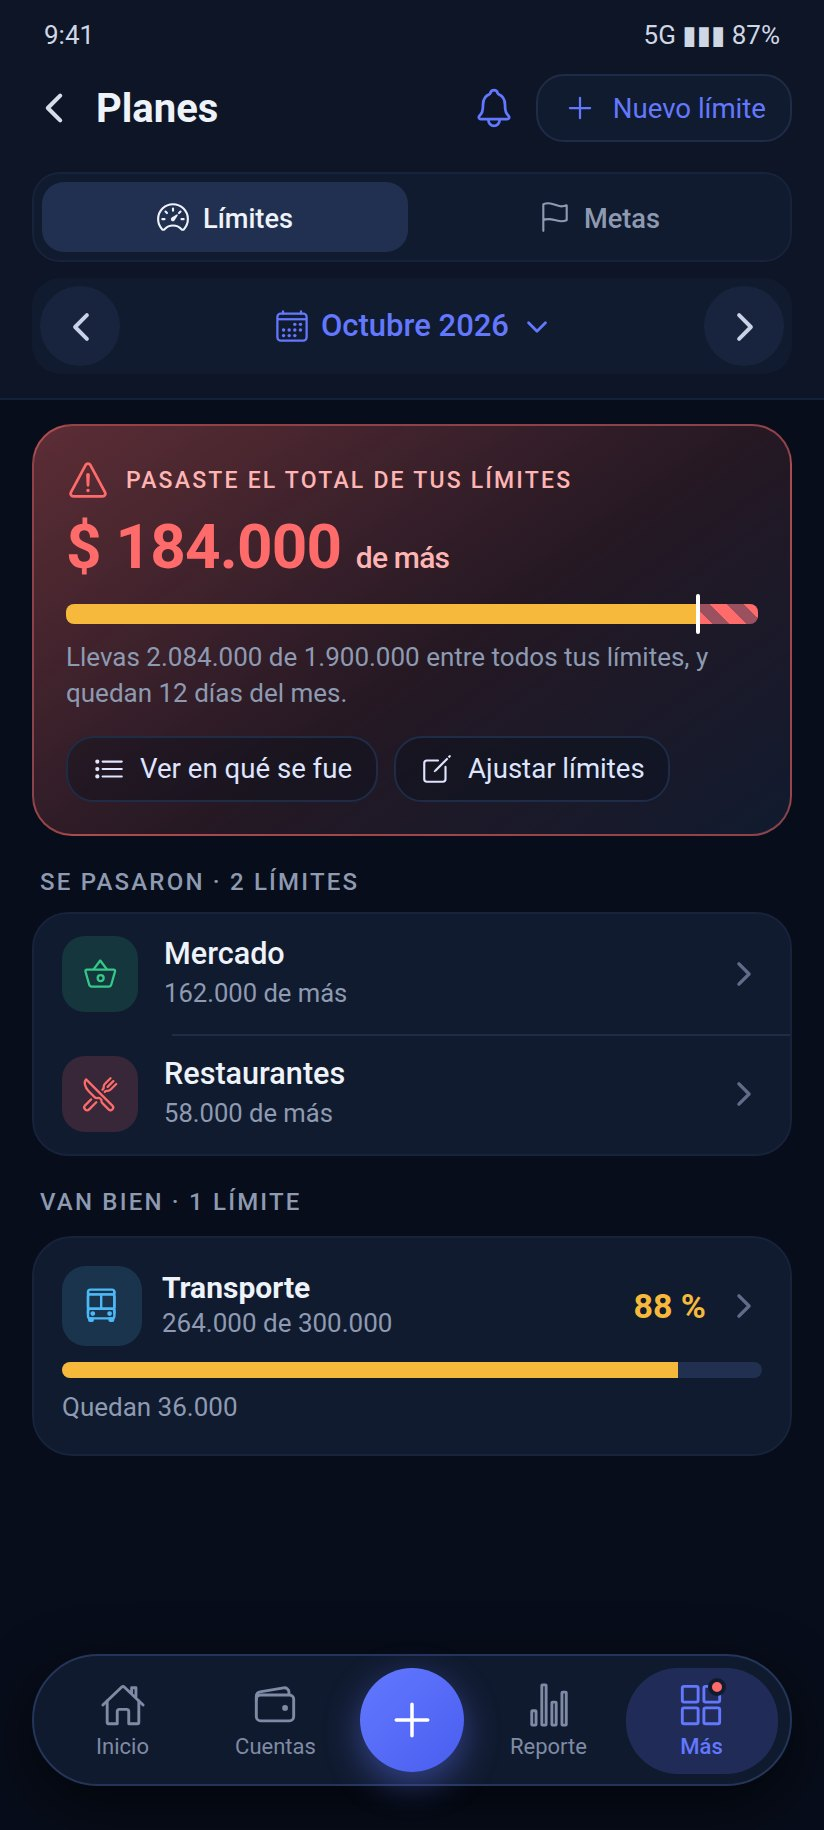
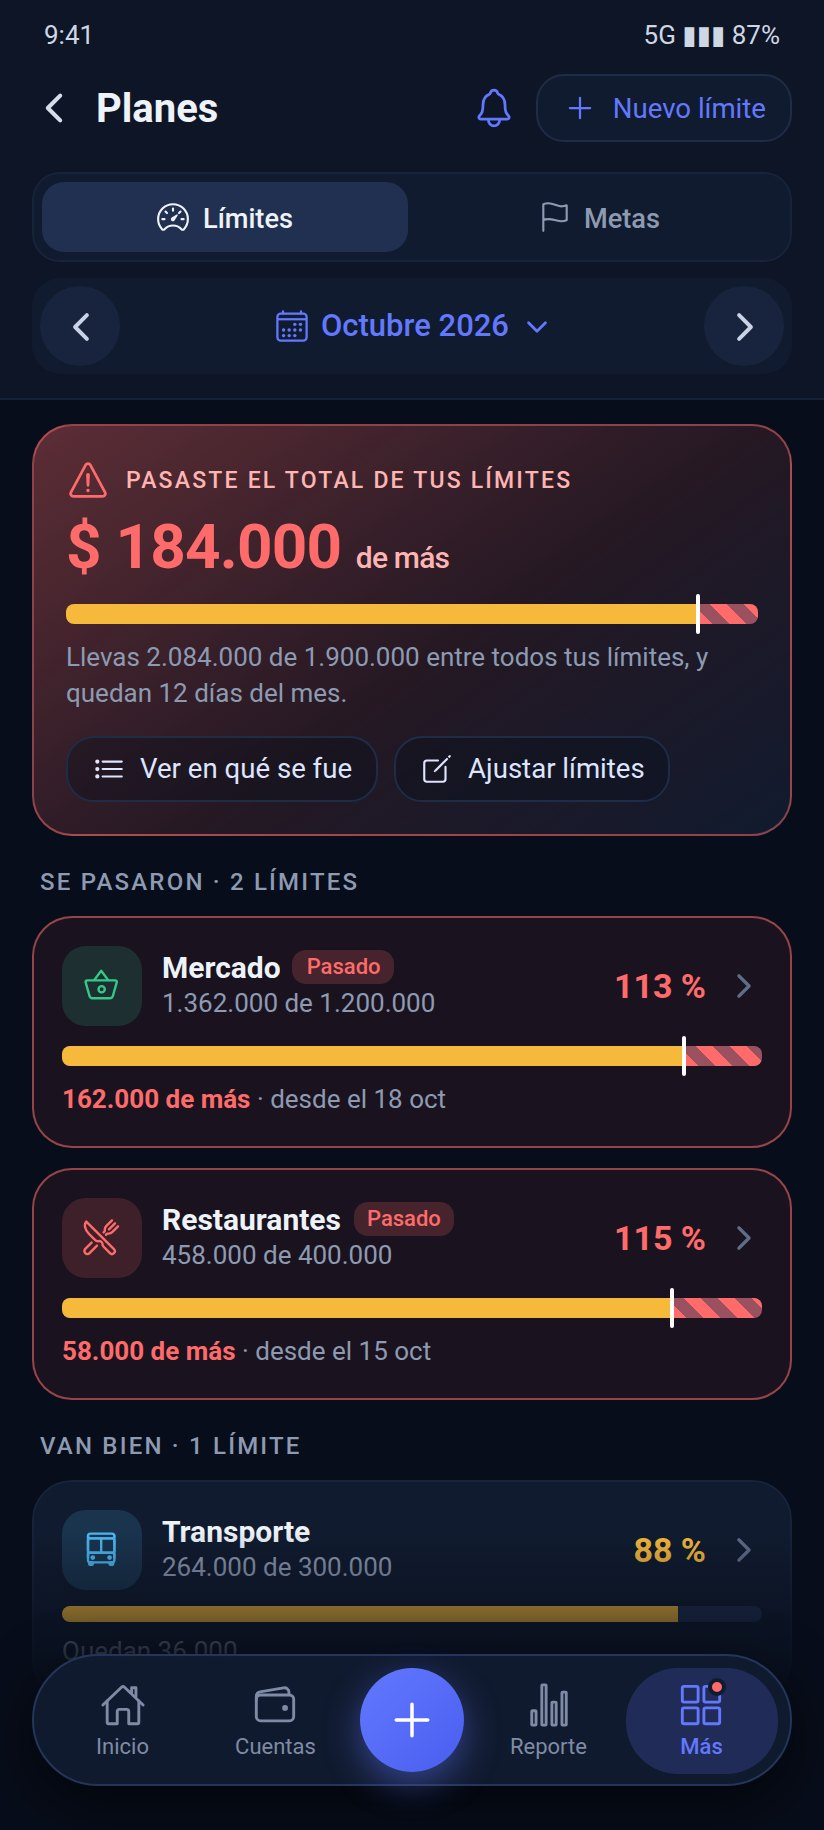
Mockups: with the total passed, each passed limit keeps its own red card
Claude-Session: https://claude.ai/code/session_01QyUqFix1SMdsKVBtd1Wz88

Changed region(s): [[0.0303, 0.4984, 0.9709, 0.9033]]

diff --git a/docs/mockups/README.md b/docs/mockups/README.md
@@ -36,7 +36,7 @@ Every list of movements is in folding sections (by day or category), only the fi
 | `13s` | **How the loan screens lead to one another** (`src/flow-13.mjs`): Resumen → Abonar → Registrar el abono → Cuotas, and the other exits |
 | `14a`–`14f` | **Part 3, plans, step 1: spending limits, for approval** (2026-10-01; invented figures): Planes in Más → Tus finanzas, Planes with no limit yet (the categories where the money goes most, one tap from a limit), Planes with limits in their colours, a new limit (the average of 3 months offered), one limit (the pace, the months before against the line, what counts this month), Inicio saying only when a limit is close or passed. Goals are step 2 |
 | `14g`–`14k` | **A limit passed, made to stand out** (Jose: a red bar is not enough): Planes with a red card on top like an overdue card and the limit marked "Pasado" with its bar running past the mark; the sheet that says so the moment the movement that crosses it is saved; Inicio with the same red card on top; the phone's own notification (100 % in red, 80 % before it); the limit's page when passed, with a more realistic figure for next month |
-| `14l`–`14p` | **The total of all limits passed** (v2, Jose: the solid red of v1 was too invasive): the same tinted red as one limit, saying it is the total and which limits passed, on Planes and on top of Inicio; the sheet at saving, the same as one limit's; the phone notification with its title in red; a red dot on Más. **Every notice at saving carries "No volver a mostrar esto"** (`14h`, `14n`), and the bell in Planes opens **Avisos** (`14p`): at saving, the phone notification and the 80 % one, each turned off and back on |
+| `14l`–`14p` | **The total of all limits passed** (v2, Jose: the solid red of v1 was too invasive): the same tinted red as one limit, saying it is the total, with each passed limit below as its own red card (as in `14g`), on Planes and on top of Inicio; the sheet at saving, the same as one limit's; the phone notification with its title in red; a red dot on Más. **Every notice at saving carries "No volver a mostrar esto"** (`14h`, `14n`), and the bell in Planes opens **Avisos** (`14p`): at saving, the phone notification and the 80 % one, each turned off and back on |
 | `6a`–`6z` | Group 6 (v5): Por revisar - the account on top, the batch and its list by day, the notices on rows, shops that repeat, the check's bubble; a movement checked in the one movement form (its note with suggestions, missing its category, maybe the same); choosing several by day and by shop, and saving them; the filter-and-order sheet, a filter on; the account list with Todas first; the "···" and discarding; squaring with the bank (its (i), its question); reading a statement - whose it is, the password, the stages, what was read (a toast), one that does not square, one that cannot be read; nothing to review |
 | `7a`–`7m` | Group 7 (v4): Avisos del banco - the apps and their switches, the (i), what they said by day, choosing several apps, hiding, hidden apps, the "···" and forgetting everything, without permission and its (i), nothing yet, a search with nothing |
 | `8a`–`8q` | Group 8 (v5): Más (replacing the drawer), language and appearance, Importar y exportar with its (i)'s, restoring and its question, Google signed out and in, saving alone, bringing the copy back, replacing another device's copy, changing account; appearance with the colour of the app |
